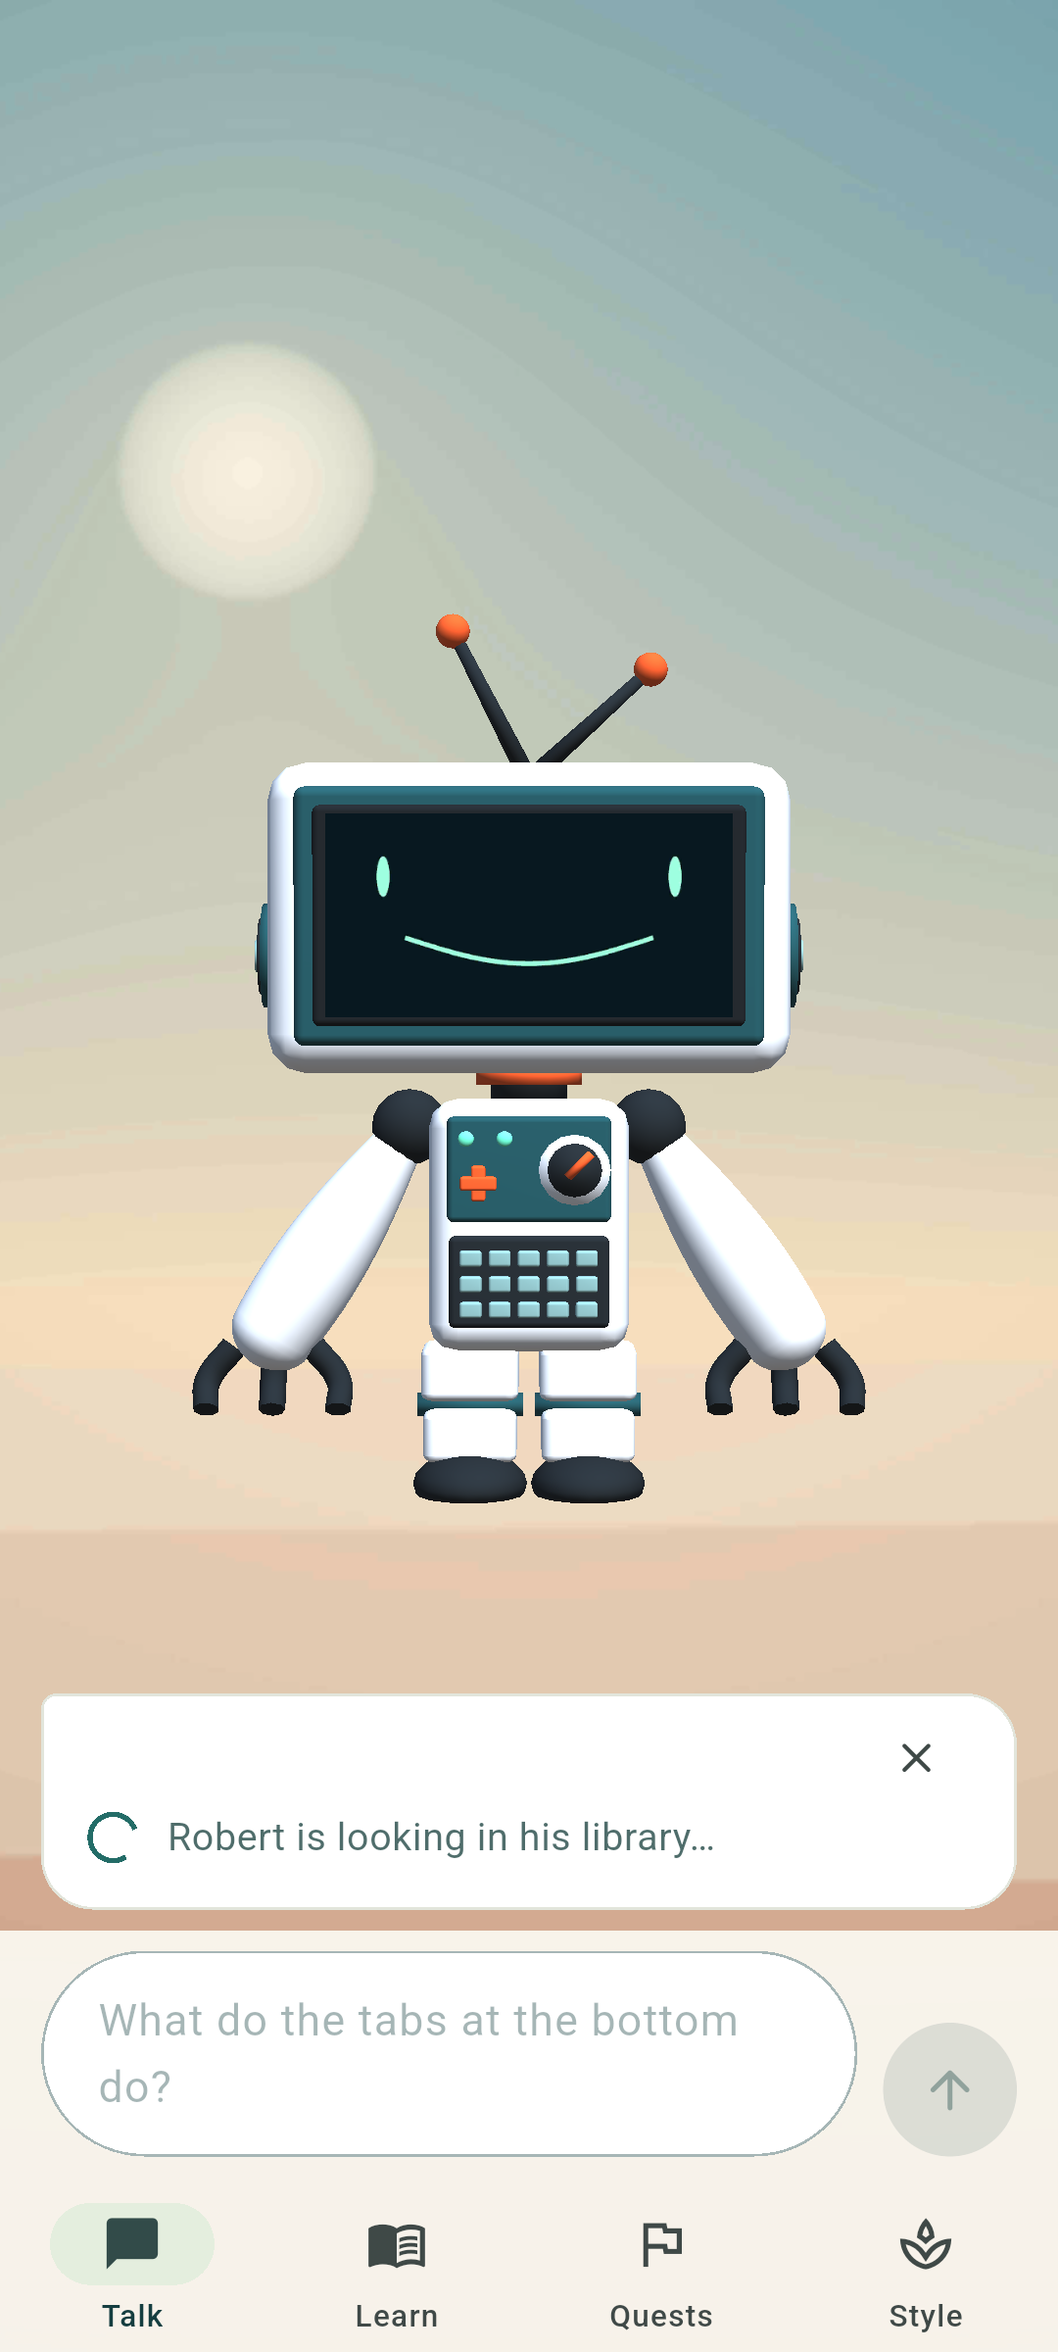
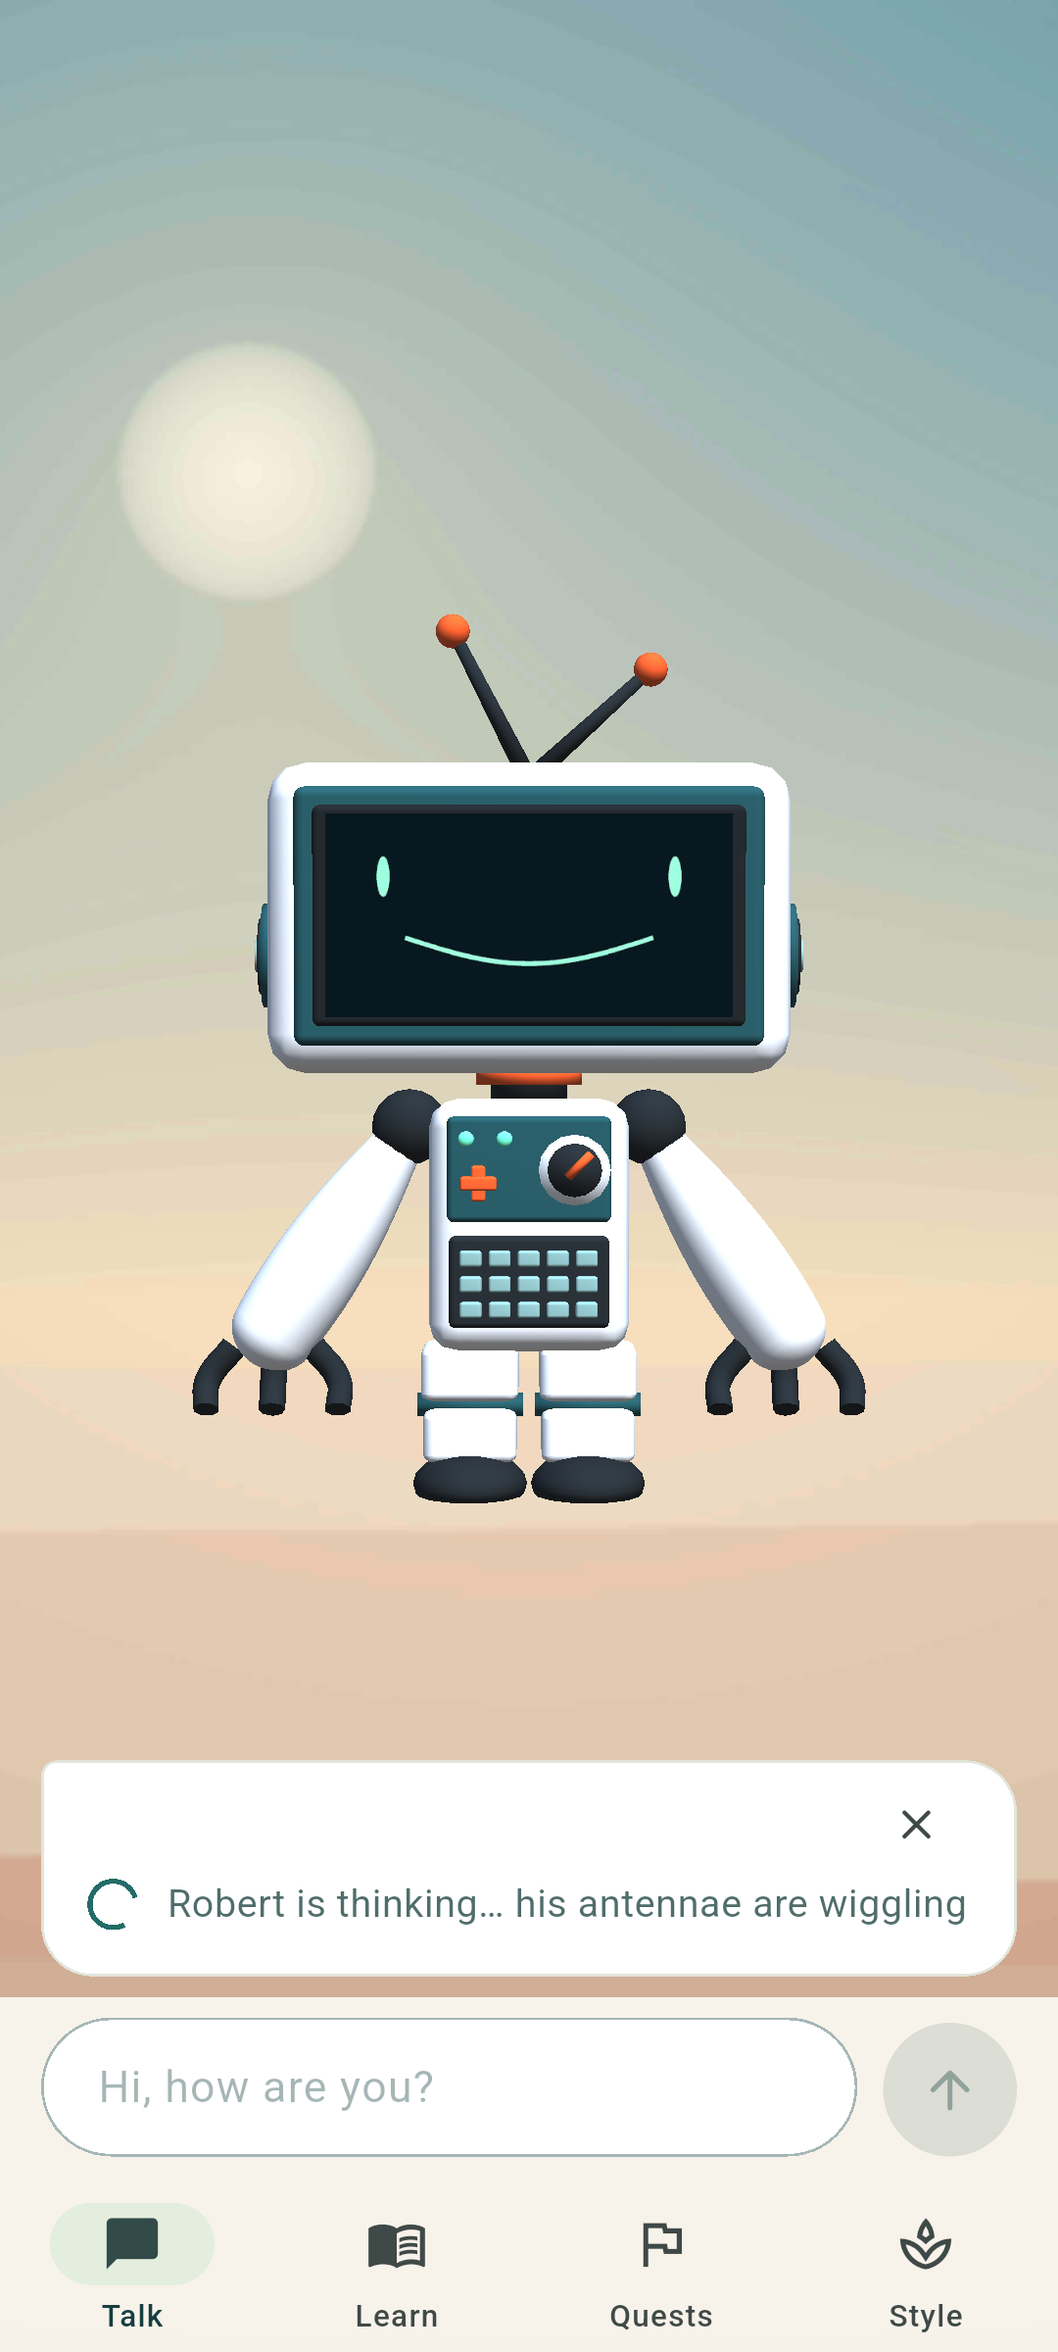
Record casual chat on the emulator and sync the shared docs
Adds emulator captures of Robert's chat reply, a joke with a Learn-tab
invitation, a reply to a sad feeling, the faith abstention and the new
thinking line; logs the chat client in CHANGELOG.md, marking superseded
strings in the previous entry; and syncs AGENTS.md and the roadmap with
comp-server.

Changed region(s): [[0.0, 0.7188, 1.0, 0.9062]]

diff --git a/CHANGELOG.md b/CHANGELOG.md
@@ -6,6 +6,111 @@ Development increments, newest first. Nothing here is a release: the gates in
 Paired server changes are in `comp-server/CHANGELOG.md`; the shared files under
 `contracts/` must stay byte-identical between the two repositories.
 
+## Unreleased — 2026-09-25 (casual chat)
+
+Commit `c6419b6` ("Show Robert's casual chat replies") on branch
+`feature/rag-system-and-data-pipeline`. The service now gives casual messages
+such as "Hi, how are you?" a short reply in Robert's own voice, and answers
+faith questions only from its corpus, otherwise saying warmly that it has no
+checked lesson about that. All of that is decided on the service (`comp-server`
+commit `54ff6b0`): the policy is `comp-server/doc/conversation-policy.md`, the
+character sheet is `comp-server/doc/robert-persona.md`, and the boundary is
+ADR 0004 (`comp-server/doc/adr-0004-casual-conversation.md`). The app only
+learns to show the new `chat` answer type, and its own few words get a little
+of Robert's character. It is development only and off by default, the corpus
+is synthetic app help, and nothing here is reviewed for children.
+
+The product owner's request of 2026-09-25 is quoted in full in the paired
+`comp-server/CHANGELOG.md` entry: faith only from the corpus, and otherwise say
+so; friendly casual chat; a loving, charming character that encourages children
+to learn more about their faith; and log everything.
+
+### Parsing a reply
+
+- **`ReplyType.chat` (`"chat"`) is accepted.** It is not a library type
+  (`cited` is false), so it must carry no citations and no sources. A chat
+  reply that carries any is refused whole, like every other non-library reply,
+  so casual chat cannot borrow the library's authority. Every other contract
+  rule applies unchanged.
+
+### The Talk page
+
+- **Chat has no label.** The bubble holds Robert's words, with the × beside
+  them. A label says where a reply came from, and chat claims to come from
+  nowhere; left bare, it cannot be mistaken for a library reply, which is
+  always named and sourced. The reply is still a live region.
+- **One thinking line for every reply:** "Robert is thinking… his antennae are
+  wiggling", next to a spinner, or a still robot icon under reduced motion. It
+  replaces "Robert is looking in his library…" and "Robert is thinking…", and
+  the book icon. Which kind of reply is coming is the service's decision and is
+  not known yet, and a hello is not a trip to the library. The antennae are
+  Robert's own: two, orange-tipped, on the model.
+- **Composer hint** when connected: "Say hi or ask (test text only)", replacing
+  "Type a synthetic test question". It invites a hello as well as a question
+  and still says the text is only for testing. It is also shorter: at 320×380
+  with text at 2×, it wraps to three lines instead of four and leaves the reply
+  about 107 px instead of 56 (measured in the widget tester with Roboto
+  loaded).
+
+### The parent area
+
+- The "Grounded answers: on · development corpus" subtitle now reads
+  "Questions are answered only from the service’s development library, with
+  their sources. Casual chat, like a hello, gets a friendly reply without
+  sources. The model runs on the service, never on this phone." Chat is not
+  from the library, so the provenance a parent reads has to say so. The "off"
+  row is unchanged.
+
+### Contracts and shared docs
+
+- `contracts/openapi-v1.json` was regenerated from the server and is
+  byte-identical to `comp-server/contracts/openapi-v1.json`: `answerType`
+  gains `chat`, and the `Turn` description says citations and sources are empty
+  except for `grounded` and `reviewed_answer`.
+- Recorded afterwards with this entry (documentation only), and byte-identical
+  to the server's copies: `AGENTS.md` now scopes the grounding rule to answers
+  to questions, says casual chat replies (ADR 0004) pass the conversation-policy
+  checks and never carry generated faith content, and points to the policy, the
+  character sheet and ADR 0004; `doc/product-architecture-roadmap.md` gains a
+  §5.1 status note on casual chat and the faith-only rule.
+- `README.md`: the `chat` row in the label table, the new thinking line and
+  hint, and the new screenshots (below).
+
+### Verification
+
+- Flutter: 81 → **86 tests**. The new tests cover:
+  - a chat reply parsing with no sources, and not counting as a library reply
+  - a chat reply that carries sources being refused
+  - on the page: the new hint, the thinking line with a still robot icon under
+    reduced motion, and a chat reply with no label, no sources and the × still
+    usable
+  - the parent area saying that chat replies carry no sources
+  - a chat reply at 320×380 with text at 2× staying in reach
+- **On the Android emulator**, against the live API with Qwen3.5-9B
+  generating, four messages behaved as intended:
+  - "Hi, how are you?" → `chat` in 2.1 s, with no label
+    (`design/chat-reply.png`). `design/thinking-bubble.png` is replaced: it now
+    shows the new thinking line while that reply was on its way.
+  - "Who is Prophet Muhammad?" → `abstained` with the faith abstention
+    (service outcome `faith_abstain:weak_evidence`, 1 ms, no model call),
+    labelled "Robert isn’t sure" (`design/faith-abstain.png`).
+  - "Can you tell me a joke?" → `chat` with a reviewed invitation to the Learn
+    tab (`design/chat-invitation.png`).
+  - "I am sad today" → `chat` pointing to a grown-up they trust, with no
+    invitation (`design/chat-feeling.png`).
+- The service's own verification, including five runs against the real
+  Qwen3.5-9B (47/47 cases each, 65/65 chat replies passing its checks, 25/25
+  faith questions abstaining), is in `comp-server/CHANGELOG.md`.
+
+Still not done: no physical device has run chat replies. The invitations point
+to faith lessons in the Learn tab, which this development app does not have
+yet. All of Robert's new wording, on the service and in this app, awaits
+safeguarding and scholarly review.
+
+Known issues:
+- At 320×380 with text at 2×, the composer's hint still wraps (three lines),
+  leaving the reply about 107 px.
+
 ## Unreleased — 2026-09-25
 
 Branch `feature/rag-system-and-data-pipeline`. The service can now answer a
@@ -59,7 +164,8 @@ on. A library reply without sources, or a fixed reply with some, should never
 be rendered in the hope that it is right.
 
 - `answerType` must be one of `unavailable`, `grounded`, `reviewed_answer`,
-  `abstained`, `redirected` or `safety`.
+  `abstained`, `redirected` or `safety`. (Superseded 2026-09-25: `chat` is
+  also accepted, with no sources; see the entry above.)
 - The library types, `grounded` and `reviewed_answer`, carry 1–4 sources whose
   ids match the citations one for one, in order. Every other type carries none,
   so no other reply can borrow the library's authority.
@@ -92,6 +198,9 @@ be rendered in the hope that it is right.
   | `safety` | "You can talk to a grown-up you trust" | ink |
   | `unavailable` | "Service response" | teal |
 
+  (Superseded 2026-09-25: `chat` was added later and has no label; see the
+  entry above.)
+
   The wording stays calm for every type, because not being sure, or being
   pointed to a grown-up, is not a mistake the child made. The safety label uses
   the steady ink colour, not an alert colour, so it does not alarm.
@@ -100,8 +209,10 @@ be rendered in the hope that it is right.
   are plain text, not links, because there is nothing on the phone to open.
 - **A thinking bubble** replaces the reply while Robert is working. It says
   "Robert is looking in his library…", or "Robert is thinking…" when grounded
-  answers are off, next to a spinner, or a book icon under reduced motion. It
-  is a live region. The × stays usable, so a child does not have to wait out a
+  answers are off, next to a spinner, or a book icon under reduced motion.
+  (Superseded 2026-09-25: one line for every reply, "Robert is thinking… his
+  antennae are wiggling", with a robot icon under reduced motion; see the entry
+  above.) It is a live region. The × stays usable, so a child does not have to wait out a
   slow answer to take the question back.
 - **A long reply now scrolls from its beginning.** It used to open at its end.
   A reply can be 1,200 characters with four sources underneath, and a child
@@ -114,7 +225,9 @@ be rendered in the hope that it is right.
 - A new row reports the service's switch but offers no way to change it:
   - on: "Grounded answers: on · development corpus", with the subtitle "Answers
     come only from the service’s development library and show their sources.
-    The model runs on the service, never on this phone."
+    The model runs on the service, never on this phone." (Superseded
+    2026-09-25: the subtitle now also says that casual chat gets a friendly
+    reply without sources; see the entry above.)
   - off: "Grounded answers: off", with the subtitle "No AI model answers
     questions."
 - "Content awaits review" no longer says that no AI provider is enabled. The
@@ -161,7 +274,9 @@ be rendered in the hope that it is right.
   thinking bubble, a grounded reply with its "Sources" list, and a ruling
   redirect labelled "Let’s ask a grown-up" all rendered as designed. See
   `design/thinking-bubble.png`, `design/grounded-answer.png` and
-  `design/redirect-reply.png`. The first try surfaced a verifier issue on the
+  `design/redirect-reply.png`. (Superseded 2026-09-25:
+  `design/thinking-bubble.png` has been replaced and now shows the new thinking
+  line; see the entry above.) The first try surfaced a verifier issue on the
   server (Qwen sometimes cites once after two sentences), now fixed as
   `grounding-v2`; see `comp-server/CHANGELOG.md`.
 
@@ -171,7 +286,9 @@ for children.
 
 Known issues:
 - **Pre-existing:** at 320×380 with text at 2×, the composer's hint wraps and
-  leaves the reply about 64 px.
+  leaves the reply about 64 px. (Superseded 2026-09-25: measured again in the
+  widget tester with Roboto loaded, the old hint left about 56 px; the new,
+  shorter hint leaves about 107 px. See the entry above.)
 - **Source limits now match** (resolved before commit). The server's schema
   caps a source's title at 120 characters and its reference at 160, the same as
   this app, and its pipeline refuses any document that could exceed them, so a

diff --git a/README.md b/README.md
@@ -19,7 +19,7 @@ implemented.
 |---|---|
 | `lib/` | Application source: `bridge/`, `data/`, `domain/`, `ui/` |
 | `assets/` | Runtime assets only — the static preview, the shared room backdrop and the Robert character package |
-| `design/` | `ui-reference.png` layout reference (`ui.make`, its 6 MB Figma source, is untracked), plus `room-on-device.png`, `customization-tab.png`, `thinking-bubble.png`, `grounded-answer.png` and `redirect-reply.png` from the emulator |
+| `design/` | `ui-reference.png` layout reference (`ui.make`, its 6 MB Figma source, is untracked), plus from the emulator `room-on-device.png`, `customization-tab.png`, `thinking-bubble.png`, `grounded-answer.png`, `redirect-reply.png`, and the casual-chat set `chat-reply.png`, `chat-invitation.png`, `chat-feeling.png` and `faith-abstain.png` |
 | `unity/` | The Unity character-room project, its room builder and its test scripts |
 | `archive/` | Untracked: superseded character revisions and the packaged distributable |
 | `contracts/` | Versioned API and bridge schemas shared with `comp-server` |
@@ -294,6 +294,32 @@ hello such as "Hi, how are you?" gets a short chat reply instead. The
 server refuses any model host that is not on the operator's machine or private
 network, so no question goes to a third-party provider.
 
+**Casual chat, and faith from the corpus only.** The service decides this, not
+the app ([`comp-server/doc/conversation-policy.md`](../comp-server/doc/conversation-policy.md),
+Robert's character sheet
+[`comp-server/doc/robert-persona.md`](../comp-server/doc/robert-persona.md), and
+the boundary in
+[ADR 0004](../comp-server/doc/adr-0004-casual-conversation.md)). A faith
+question is answered only from the corpus, never from the model's memory or by
+casual chat. The development corpus has no faith lessons, so today every faith
+question comes back as "Robert isn’t sure", saying warmly that he only answers
+faith questions from lessons his teachers have checked. Small talk gets a short,
+checked reply in Robert's voice as answer type `chat`, and now and then a
+reviewed line inviting the child to explore a lesson in the Learn tab; a sad
+feeling gets a kind reply that points to a grown-up they trust, and no
+invitation. On the emulator, against the real model:
+
+| Screenshot | Message | Reply |
+|---|---|---|
+| [`design/thinking-bubble.png`](design/thinking-bubble.png) | "Hi, how are you?" | the thinking line while the service works |
+| [`design/chat-reply.png`](design/chat-reply.png) | "Hi, how are you?" | `chat`, no label, in 2.1 s |
+| [`design/chat-invitation.png`](design/chat-invitation.png) | "Can you tell me a joke?" | `chat`, with a reviewed invitation to the Learn tab |
+| [`design/chat-feeling.png`](design/chat-feeling.png) | "I am sad today" | `chat`, pointing to a grown-up they trust, no invitation |
+| [`design/faith-abstain.png`](design/faith-abstain.png) | "Who is Prophet Muhammad?" | `abstained` with the faith abstention, in 1 ms with no model call |
+
+All of this wording awaits safeguarding and scholarly review, and the Learn tab
+does not have the faith lessons the invitations point to yet.
+
 Each reply is labelled by the answer type the service sends. The app never
 infers the label from the text:
 
@@ -349,8 +375,12 @@ parsed grounded replies with sources in about 2 s. On the emulator, with Qwen
 generating, the thinking bubble, a grounded reply with its sources and a ruling
 redirect all rendered as designed (`design/thinking-bubble.png`,
 `design/grounded-answer.png`, `design/redirect-reply.png`); the emulator and the
-loaded model only fit in memory together once Steam and Chrome were closed. No
-physical device has run it yet. At 320×380 with text
+loaded model only fit in memory together once Steam and Chrome were closed.
+Casual chat was then checked the same way: a hello, a joke with an invitation, a
+sad feeling and a faith question (`design/chat-reply.png`,
+`design/chat-invitation.png`, `design/chat-feeling.png`,
+`design/faith-abstain.png`; `design/thinking-bubble.png` now shows the new
+thinking line). No physical device has run it yet. At 320×380 with text
 at 2×, the composer's hint still wraps. The shorter hint takes three lines
 rather than four and leaves the reply about 107 px rather than 56 (measured in
 the widget tester with Roboto loaded).

diff --git a/doc/product-architecture-roadmap.md b/doc/product-architecture-roadmap.md
@@ -202,6 +202,8 @@ Do not expose raw token-by-token generation to children. Validate a complete sen
 
 **Status (2026-09-25, development only).** A first, text-only version of this flow exists behind a server switch that is off by default, over synthetic app-help content rather than an approved corpus. Input routing uses development keyword rules, not an approved safeguarding classifier. Voice (the recording in step 1, and steps 3, 11 and 12) is not implemented. Flutter does not yet stream segments (step 10). Instead, it reads `GET /v1/turns/{id}` every second for the complete, verified reply, for up to 90 seconds per attempt, and a retry resumes the same turn. The Talk page labels each reply by its answer type. `grounded` and `reviewed_answer` show as "From Robert’s library", with a plain-text list of sources. `abstained`, `redirected` and `safety` each have their own calm label, and `unavailable` appears when the switch is off. The model produces no avatar cues (step 7), and Unity receives no reply text. The contract is `comp-server/doc/rag-system.md` §7.
 
+**Casual chat and faith (2026-09-25, development only).** In the router (step 5), a deterministic faith-topic detector sends every faith question to the corpus alone: a reviewed answer, or a grounded answer that verifies and actually answers, otherwise a gentle abstention saying Robert has no checked lesson about it. Faith is never answered from model memory or by casual chat. Small talk such as "Hi, how are you?" gets a short reply in Robert's voice from a persona prompt, released as answer type `chat` only after its own checks (no faith content, no requests for personal details, no attachment, a trusted-adult line for a difficult feeling), or replaced by reviewed copy. It carries no sources and no label in the app, and now and then a reviewed line invites the child to a lesson in the Learn tab. This is the one scoped exception to grounding verification (step 8). The policy is `comp-server/doc/conversation-policy.md`, the character is `comp-server/doc/robert-persona.md`, and the boundary is ADR 0004 (`comp-server/doc/adr-0004-casual-conversation.md`). All of its copy awaits safeguarding and scholarly review.
+
 ### 5.2 Client/backend protocol
 
 Prefer REST plus Server-Sent Events for the MVP:

diff --git a/AGENTS.md b/AGENTS.md
@@ -63,7 +63,7 @@ LangChain and LiteLLM are infrastructure behind domain-owned interfaces. LangCha
 
 ## AI and RAG requirements
 
-Every child message must pass through server-side input safety and routing before any generative model call. Every generated response must pass grounding verification and output safety before release.
+Every child message must pass through server-side input safety and routing before any generative model call. Every generated answer to a question must pass grounding verification before release. Casual chat replies (ADR 0004) cannot be grounded: they must pass the conversation-policy checks instead and never carry generated faith content. All generated text must pass output safety before release.
 
 - Retrieve only from immutable, published, scholar-approved corpus releases.
 - Never use open-web retrieval in the child experience.
@@ -76,6 +76,7 @@ Every child message must pass through server-side input safety and routing befor
 - Abstain gently when evidence is insufficient and recommend asking a parent, teacher, or qualified local scholar as appropriate.
 - Record model, prompt-policy, retriever, and corpus versions without placing raw child content in ordinary logs.
 - The development RAG implementation lives in the backend and follows `comp-server/doc/rag-system.md` within the boundary of ADR 0003 (`comp-server/doc/adr-0003-grounded-answers-development.md`). The backend's `corpus/dev-app-help` must stay synthetic app help; never add religious content to it.
+- Faith questions are answered only from the corpus, never from model memory or casual chat. How each message is handled follows `comp-server/doc/conversation-policy.md`, Robert's character is `comp-server/doc/robert-persona.md`, and the boundary for casual chat is ADR 0004 (`comp-server/doc/adr-0004-casual-conversation.md`).
 
 Do not silently switch to an unreviewed model or speech provider. Provider additions require privacy, retention, training-use, residency, safety, and evaluation review.
 
